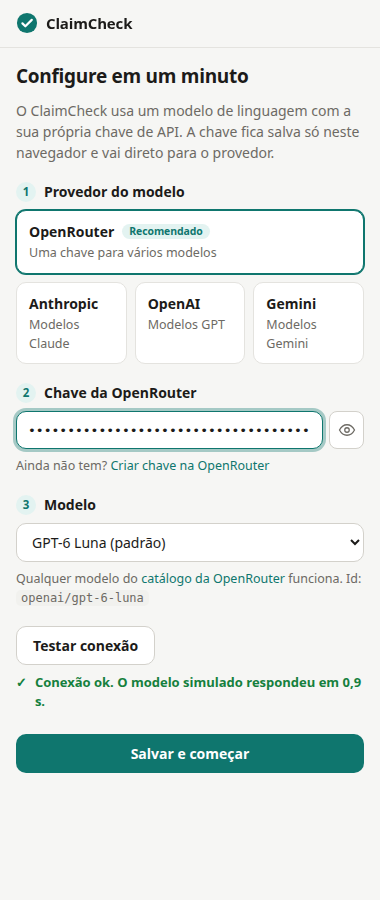
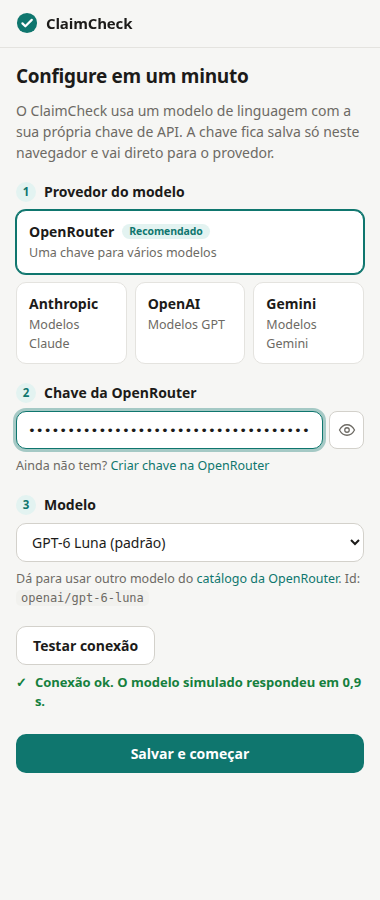
Ajusta a dica de modelo e atualiza as imagens

Changed region(s): [[0.0579, 0.6222, 0.9553, 0.6533]]

diff --git a/sidepanel.js b/sidepanel.js
@@ -609,7 +609,7 @@ function renderSetup({ onboarding }) {
     const id = modelSelect.value === "__custom" ? modelCustom.value.trim() : modelSelect.value;
     $("#model-hint").innerHTML =
       p.id === "openrouter"
-        ? `Qualquer modelo do <a href="https://openrouter.ai/models" target="_blank" rel="noreferrer">catálogo da OpenRouter</a> funciona.${
+        ? `Dá para usar outro modelo do <a href="https://openrouter.ai/models" target="_blank" rel="noreferrer">catálogo da OpenRouter</a>.${
             id ? ` Id: <code>${escapeHtml(id)}</code>` : ""
           }`
         : id
